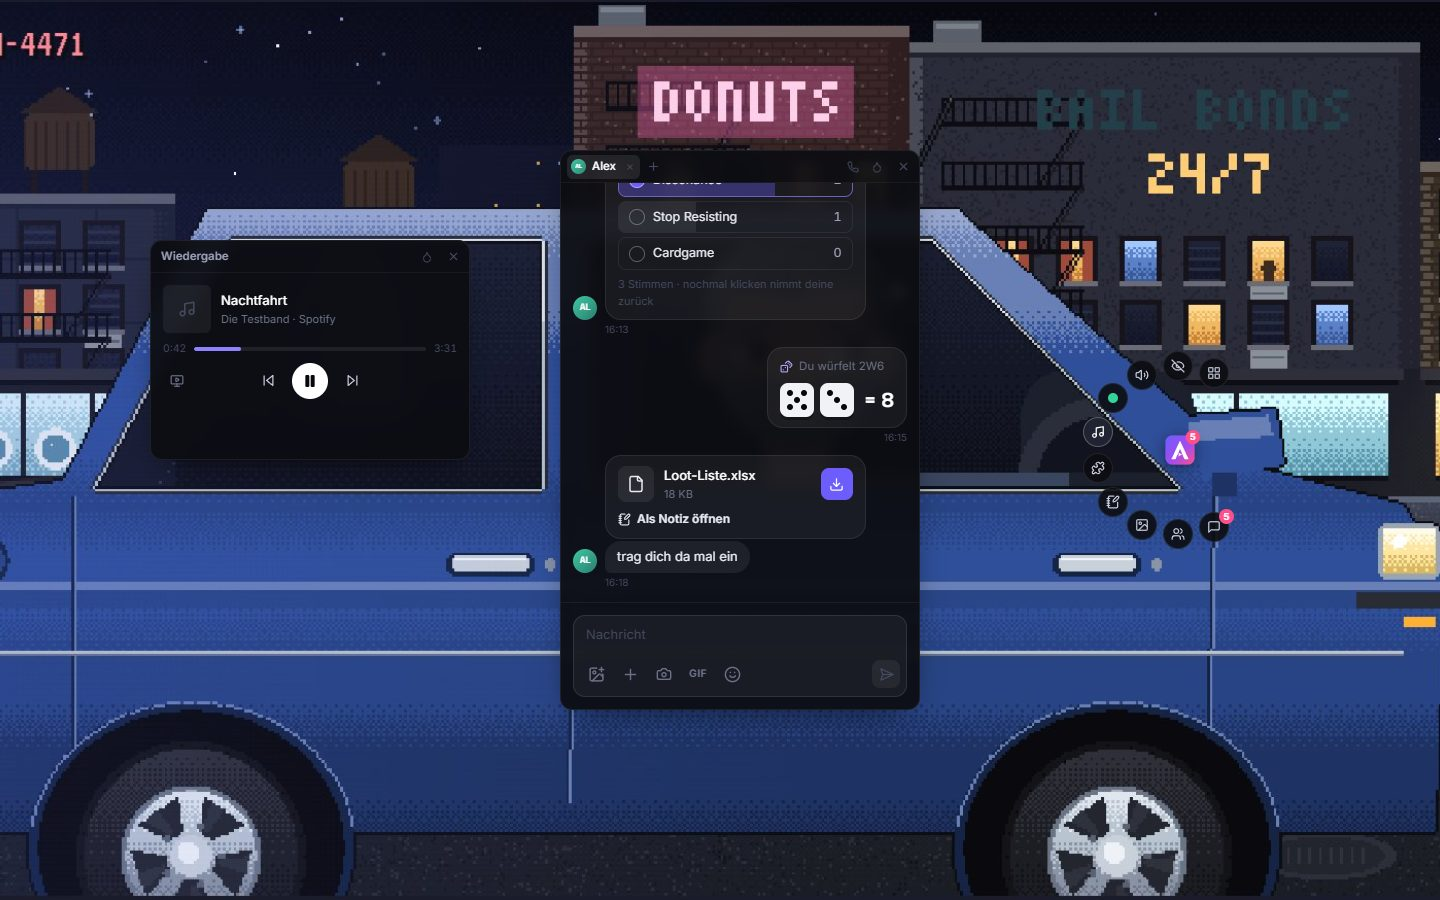
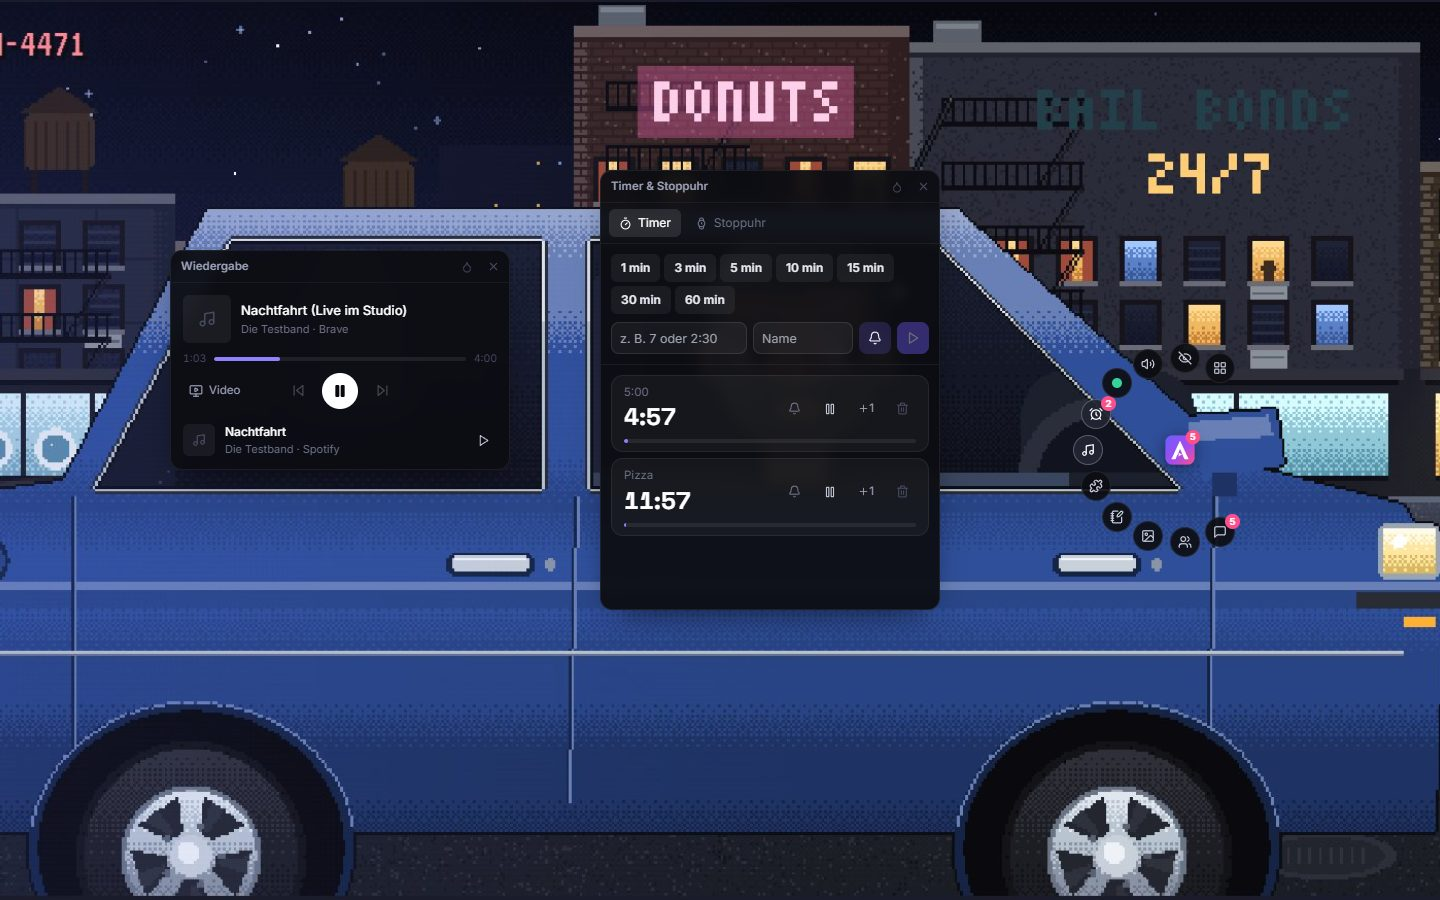
Bilder öffnen groß auf der Seite statt im neuen Tab; Launcher-Seite aufgeräumt, neues Overlay-Bild

diff --git a/src/styles/global.css b/src/styles/global.css
@@ -154,3 +154,6 @@ body {
 .reveal {
   animation: var(--animate-fade-up);
 }
+
+/* picture viewer (Base.astro): slightly smaller while it fades in */
+.scale95 { transform: scale(0.95); }
